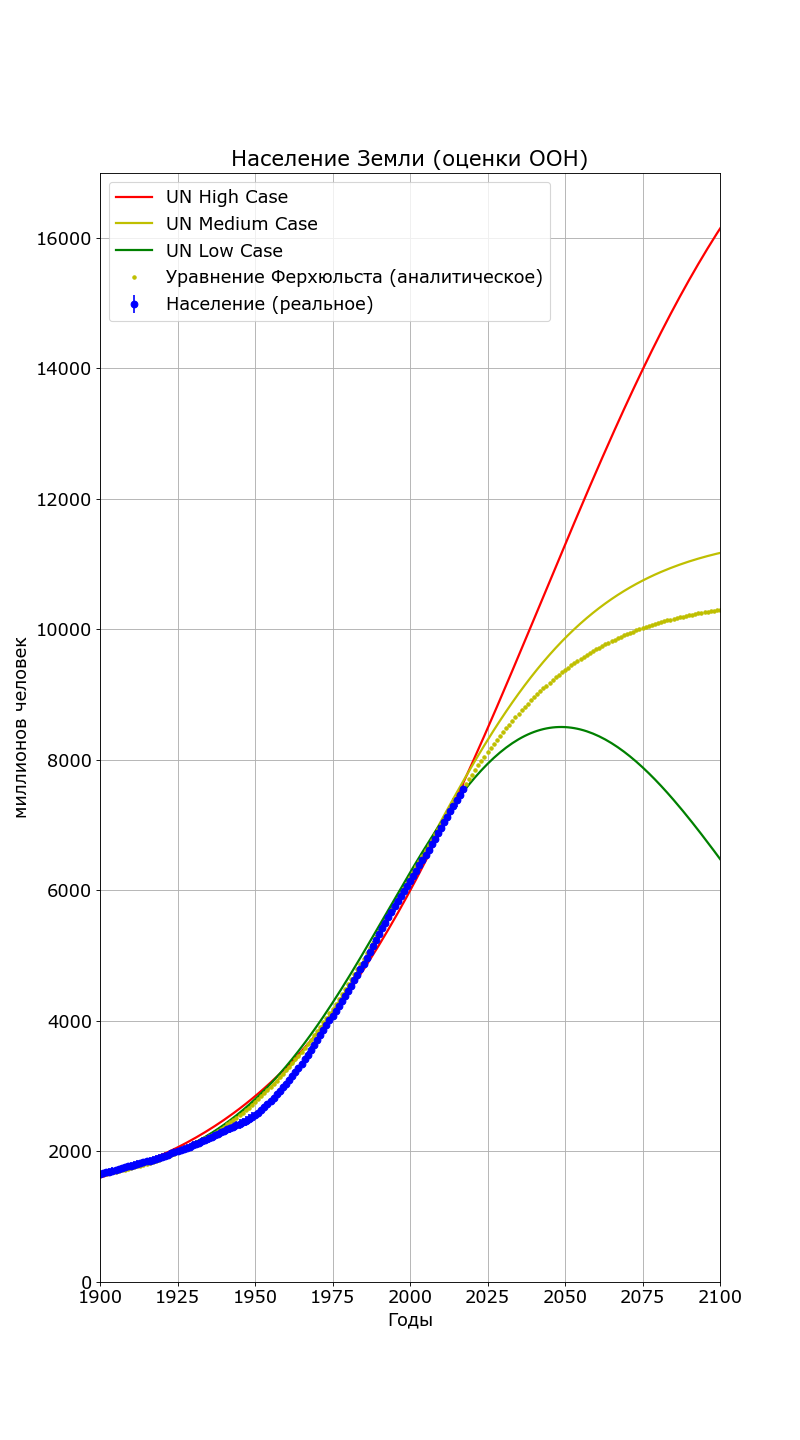
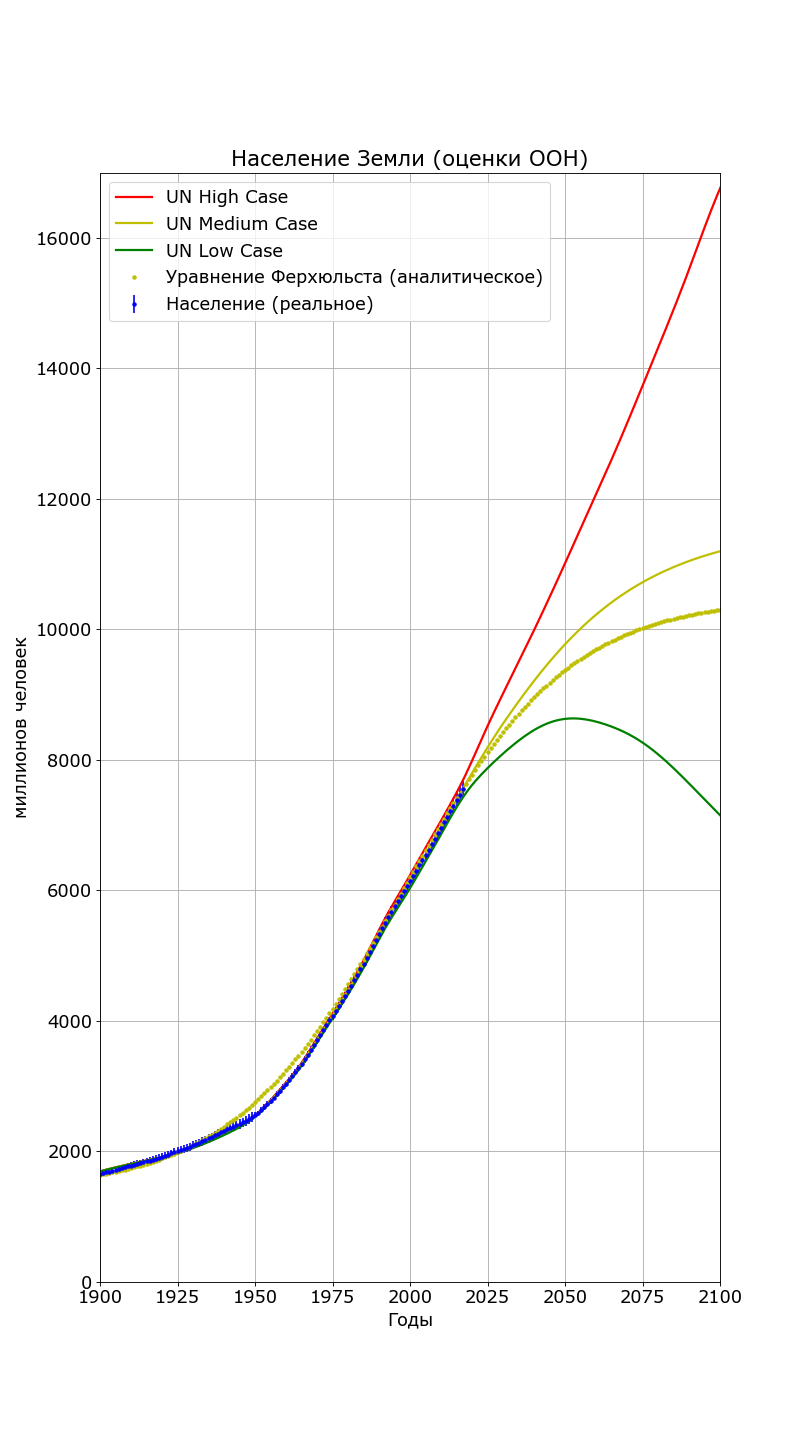
Latest UN estimates (2014)

diff --git a/Chapter 03/Population.py b/Chapter 03/Population.py
@@ -6,26 +6,58 @@ from Utilities import *
 # Peak_Value - peak population value
 # L_Slope - left slope
 # R_Slope - right slope
-# Additionaly creates three approximate UN solutions using Bathtub and Sigmoid functions 
+# Additionaly creates three approximate UN solutions using linear combinations of Sigmoid and Hubbert functions 
 #
 class Population:
     def __init__( self, Peak_Year=2057, Peak_Value=8000, L_Slope=0.028, R_Slope=0.080):
-        self._Model0 = Bathtub( -650,0.0025,2200,0.004,30,260,4250)
-        self._Model1 = Hubbert( Peak_Year, L_Slope, R_Slope, Peak_Value)
-        self._Model2 = Hubbert( 1950, 0.2, 0.2, -250)
-        self._Model3 = Hubbert( 2000, 0.1, 0.2, 150)
-        self._Model4 = Hubbert( 1970, 0.3, 0.3, -50)
-        self._Model5 = Hubbert( 1870, 0.1, 0.05, 120)
-        self._Model6 = Hubbert( 1930, 0.2, 0.2, -50)
+        self._Model0 = Linear_Combo()
+        self._Model0.Wavelets += [Bathtub( -650,0.0025,2200,0.004,30,260,4250)]
+        self._Model0.Wavelets += [Hubbert( Peak_Year, L_Slope, R_Slope, Peak_Value)]
+        self._Model0.Wavelets += [Hubbert( 1950, 0.2, 0.2, -250)]
+        self._Model0.Wavelets += [Hubbert( 2000, 0.1, 0.2, 150)]
+        self._Model0.Wavelets += [Hubbert( 1970, 0.3, 0.3, -50)]
+        self._Model0.Wavelets += [Hubbert( 1870, 0.1, 0.05, 120)]
+        self._Model0.Wavelets += [Hubbert( 1930, 0.2, 0.2, -50)]
         self.Name = "PyWorld 2017"
         self.Calibration_Year, self.Calibration_Total = Load_Calibration( "Population_Calibration.csv", "Year", "Population")
         self.Calibration_Year, self.Calibration_Yerr = Load_Calibration( "Population_Calibration.csv", "Year", "Yerror")
-        self.UN_Low = Bathtub( 1997, 0.0370, 2100, 0.030, 1390, 11500, 1900)
+        self.UN_Low = Linear_Combo()
         self.UN_Low.Name = "UN Low Case"
-        self.UN_Medium = Sigmoid( 2003, 0.0350, 1390, 11500)
+        self.UN_Low.Wavelets += [ Sigmoid( x0=2002.0, s0=0.03300, left=980.000, right=11600.000, shift=0.000)]
+        self.UN_Low.Wavelets += [ Hubbert( x0=1855.5, s0=0.07523, s1=0.10878, peak=182.819, shift=0.000)]
+        self.UN_Low.Wavelets += [ Hubbert( x0=1903.0, s0=0.06400, s1=0.06400, peak=353.000, shift=0.000)]
+        self.UN_Low.Wavelets += [ Hubbert( x0=1951.0, s0=0.17975, s1=0.21109, peak=-118.000, shift=0.000)]
+        self.UN_Low.Wavelets += [ Hubbert( x0=1964.0, s0=0.30994, s1=0.34868, peak=-69.500, shift=0.000)]
+        self.UN_Low.Wavelets += [ Hubbert( x0=1992.0, s0=0.30994, s1=0.31987, peak=79.000, shift=0.000)]
+        self.UN_Low.Wavelets += [ Hubbert( x0=2010.0, s0=0.36475, s1=0.13208, peak=-32.500, shift=0.000)]
+        self.UN_Low.Wavelets += [ Hubbert( x0=2037.8, s0=0.16307, s1=0.10332, peak=-31.025, shift=0.000)]
+        self.UN_Low.Wavelets += [ Sigmoid( x0=2085.0, s0=0.04452, left=0.000, right=-6116.317, shift=0.000)]
+        self.UN_Low.Wavelets += [ Hubbert( x0=2017.0, s0=0.16677, s1=0.20335, peak=155.000, shift=0.000)]
+        self.UN_Low.Wavelets += [ Hubbert( x0=2062.0, s0=0.11881, s1=0.12884, peak=-128.000, shift=0.000)]
+        self.UN_Medium = Linear_Combo()
         self.UN_Medium.Name = "UN Medium Case"
-        self.UN_High = Sigmoid( 2043, 0.0240, 1000, 20000)
+        self.UN_Medium.Wavelets += [ Sigmoid( x0=2002.0, s0=0.03300, left=980.000, right=11600.000, shift=0.000)]
+        self.UN_Medium.Wavelets += [ Hubbert( x0=1855.5, s0=0.07523, s1=0.10878, peak=182.819, shift=0.000)]
+        self.UN_Medium.Wavelets += [ Hubbert( x0=1903.0, s0=0.06400, s1=0.06400, peak=353.000, shift=0.000)]
+        self.UN_Medium.Wavelets += [ Hubbert( x0=1951.0, s0=0.17975, s1=0.21109, peak=-118.000, shift=0.000)]
+        self.UN_Medium.Wavelets += [ Hubbert( x0=1964.0, s0=0.30994, s1=0.34868, peak=-69.500, shift=0.000)]
+        self.UN_Medium.Wavelets += [ Hubbert( x0=1992.0, s0=0.30994, s1=0.31987, peak=79.000, shift=0.000)]
+        self.UN_Medium.Wavelets += [ Hubbert( x0=2010.0, s0=0.36475, s1=0.13208, peak=-32.500, shift=0.000)]
+        self.UN_Medium.Wavelets += [ Hubbert( x0=2037.8, s0=0.16307, s1=0.10332, peak=-31.025, shift=0.000)]
+        self.UN_High = Linear_Combo()
         self.UN_High.Name = "UN High Case"
+        self.UN_High.Wavelets += [ Sigmoid( x0=2002.000, s0=0.03300, left=980.000, right=11600.000, shift=0.000)]
+        self.UN_High.Wavelets += [ Hubbert( x0=1855.500, s0=0.07523, s1=0.10878, peak=182.819, shift=0.000)]
+        self.UN_High.Wavelets += [ Hubbert( x0=1903.000, s0=0.06400, s1=0.06400, peak=353.000, shift=0.000)]
+        self.UN_High.Wavelets += [ Hubbert( x0=1951.000, s0=0.17975, s1=0.21109, peak=-118.000, shift=0.000)]
+        self.UN_High.Wavelets += [ Hubbert( x0=1964.000, s0=0.30994, s1=0.34868, peak=-69.500, shift=0.000)]
+        self.UN_High.Wavelets += [ Hubbert( x0=1992.000, s0=0.30994, s1=0.31987, peak=79.000, shift=0.000)]
+        self.UN_High.Wavelets += [ Hubbert( x0=2010.000, s0=0.36475, s1=0.13208, peak=-32.500, shift=0.000)]
+        self.UN_High.Wavelets += [ Hubbert( x0=2037.800, s0=0.16307, s1=0.10332, peak=-31.025, shift=0.000)]
+        self.UN_High.Wavelets += [ Sigmoid( x0=2085.000, s0=0.05121, left=0.000, right=8218.938, shift=0.000)]
+        self.UN_High.Wavelets += [ Hubbert( x0=2017.000, s0=0.22877, s1=0.27615, peak=-116.000, shift=0.000)]
+        self.UN_High.Wavelets += [ Hubbert( x0=2056.000, s0=0.13014, s1=0.20680, peak=80.975, shift=0.000)]
+        self.UN_High.Wavelets += [ Hubbert( x0=2088.000, s0=0.14967, s1=0.20132, peak=-171.671, shift=0.000)]
         self.Velhurst_Analytical = Sigmoid( 1997, 0.0370, 1390, 10500)
         self.Velhurst_Analytical.Name = "Velhurst Analytical"
         self.Kapitsa_Analytical = KapitsaIntegral( 2003, 176e3, 44)
@@ -43,19 +75,12 @@ class Population:
     def Solve( self, t0):
         self.Solution_Year = t0
         self.Solution_Total = self._Model0.GetVector( t0)
-        self.Solution_Total += self._Model1.GetVector( t0)
         return self.Solution_Total
     #
     # Computes the approximation
     #
     def Compute( self, t):
         tmp = self._Model0.Compute( t)
-        tmp += self._Model1.Compute( t)
-        tmp += self._Model2.Compute( t)
-        tmp += self._Model3.Compute( t)
-        tmp += self._Model4.Compute( t)
-        tmp += self._Model5.Compute( t)
-        tmp += self._Model6.Compute( t)
         return tmp
 
 #

diff --git a/Chapter 03/Utilities.py b/Chapter 03/Utilities.py
@@ -86,7 +86,11 @@ class Sigmoid( Control_Curve):
     
     # computation
     def Compute( self, x):
-        e = np.exp( -self.S0*(x-self.X0))
+        x -= self.X0
+        x *= -self.S0
+        if x < -500.0: return self.Right + self.Shift
+        if x > 500.0: return self.Left + self.Shift
+        e = np.exp( x)
         y = self.Left + (self.Right-self.Left)/(1.0+e) + self.Shift
         return y
 
@@ -158,9 +162,11 @@ class Hubbert( Control_Curve):
     # computation
     def Compute( self, x):
         x -= self.X0
-        if x < 0.0: x *= self.S0
-        else: x *= self.S1
-        e = np.exp( -x)
+        if x < 0.0: x *= -self.S0
+        else: x *= -self.S1
+        if x < -500.0: return self.Shift
+        if x > 500.0: return self.Shift
+        e = np.exp( x)
         y = 4.0 * self.Peak * e / (1+e) / (1+e) + self.Shift
         return y
 
@@ -196,7 +202,10 @@ class Gauss( Control_Curve):
         if x < 0.0: s = self.S0
         else: s = self.S1
         x *= x
-        e = np.exp( -s*x)
+        x *= -s
+        if x < -500.0: return self.Shift
+        if x > 500.0: return self.Shift
+        e = np.exp(x)
         y = self.Peak * e + self.Shift
         return y
 
@@ -387,6 +396,29 @@ def Load_Calibration( file_Name, var1_Name, var2_Name):
     #print( var1)
     #print( var2)
     return np.array( var1), np.array( var2)
+
+#
+# Provides interpolation as a linear combination
+# of several Control_Curve functions
+#
+class Linear_Combo (Control_Curve):
+    def __init__( self):
+        self.Name = "Linear Combination"
+        self.Wavelets = []
+        return
+
+    # computation
+    def Compute( self, x):
+        tmp = 0.0
+        for w in self.Wavelets:
+            tmp += w.Compute( x)
+        return tmp
+
+    # plots data, together with optional external data
+    def Plot( self, x1, x2, file_Name = "", coplot_x = -1, coplot_y = -1, no_screen = False):
+        sy = "{0:g} function(s)".format( len(self.Wavelets))
+        Control_Curve.Plot( self, x1, x2, sy, "y", file_Name, coplot_x, coplot_y, no_screen)
+        return
 
 #
 # Makes sure matplotlib can write in Russian

diff --git a/Chapter 03/Test_Population_7.py b/Chapter 03/Test_Population_7.py
@@ -11,7 +11,7 @@ plt.plot( T, P.UN_High.GetVector(T), "-", lw=2, color="r", label=P.UN_High.Name)
 plt.plot( T, P.UN_Medium.GetVector(T), "-", lw=2, color="y", label=P.UN_Medium.Name)
 plt.plot( T, P.UN_Low.GetVector(T), "-", lw=2, color="g", label=P.UN_Low.Name)
 plt.plot( T, P.Velhurst_Analytical.GetVector(T), ".", lw=1, color="y", label="Уравнение Ферхюльста (аналитическое)")
-plt.errorbar( P.Calibration_Year, P.Calibration_Total, yerr=P.Calibration_Yerr, fmt='o', color="b", label="Население (реальное)")
+plt.errorbar( P.Calibration_Year, P.Calibration_Total, yerr=P.Calibration_Yerr, fmt='.', color="b", label="Население (реальное)")
 plt.xlabel("Годы")
 plt.xlim( 1900, 2100)
 plt.ylabel("миллионов человек")
